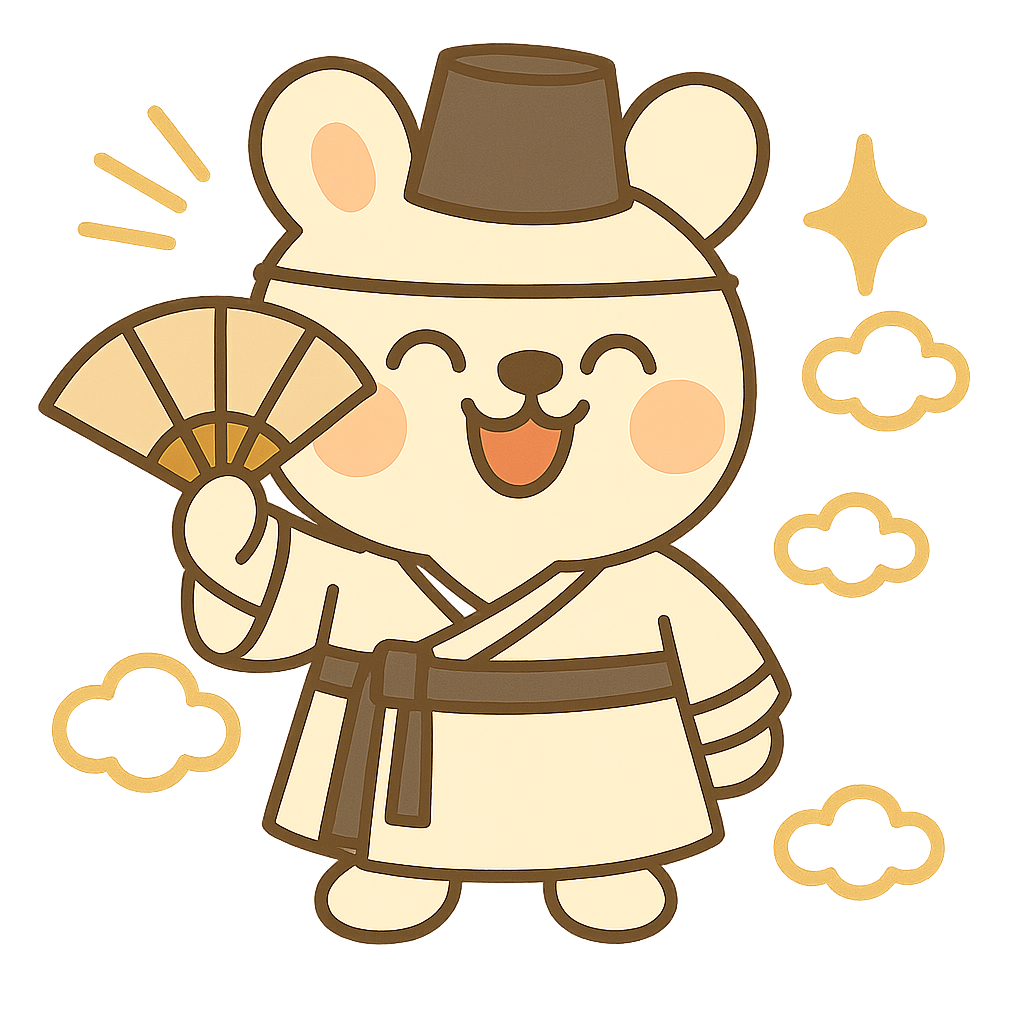
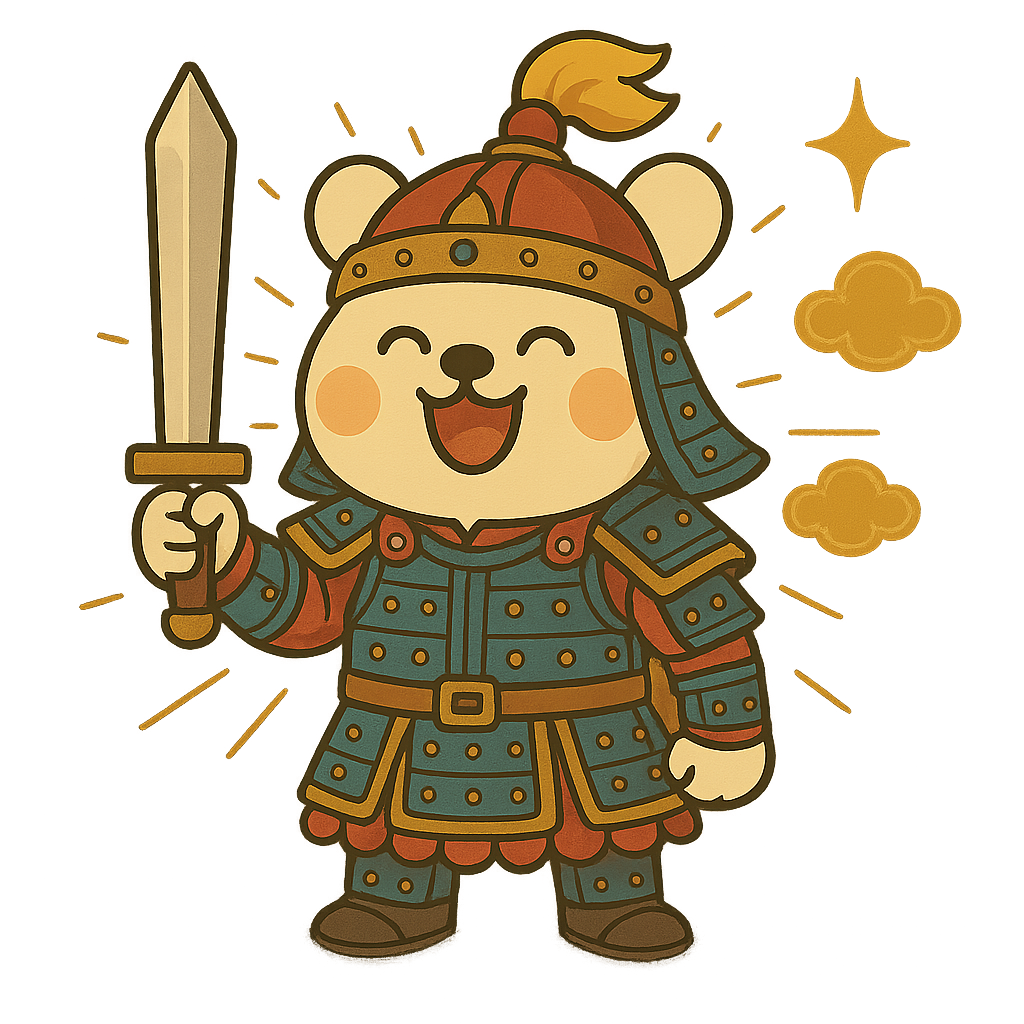
금일 작업 내용

diff --git a/src/screens/modal/ProverbDetailModal.tsx b/src/screens/modal/ProverbDetailModal.tsx
@@ -1,0 +1,252 @@
+// ProverbDetailModal.tsx
+import React from 'react';
+import { View, Text, TouchableOpacity, ScrollView, Modal, StyleSheet } from 'react-native';
+import Icon from 'react-native-vector-icons/FontAwesome6';
+import { scaledSize, scaleHeight, scaleWidth } from '@/utils';
+import { MainDataType } from '@/types/MainDataType';
+
+type Props = {
+    visible: boolean;
+    proverb: MainDataType.Proverb | null;
+    onClose: () => void;
+    getFieldColor: (field: string) => string;
+    getLevelColor: (levelName: string) => string;
+};
+
+const ProverbDetailModal = ({ visible, proverb, onClose, getFieldColor, getLevelColor }: Props) => {
+    if (!proverb) return null;
+
+    return (
+        <Modal visible={visible} animationType="slide" transparent onRequestClose={onClose}>
+            <View style={styles.modalOverlay}>
+                <View style={styles.modalContainer}>
+                    {/* ───────────── 헤더 (그대로 유지) ───────────── */}
+                    <View style={styles.modalHeader}>
+                        <Text style={styles.modalHeaderTitle}>속담 상세</Text>
+                        <TouchableOpacity style={styles.modalCloseIcon} onPress={onClose}>
+                            <Icon name="xmark" size={20} color="#0984e3" />
+                        </TouchableOpacity>
+                    </View>
+
+                    <ScrollView contentContainerStyle={styles.modalBody} showsVerticalScrollIndicator={false}>
+                        {/* 배지 영역 */}
+                        <View style={styles.badgeRow}>
+                            <View style={[styles.badge, { backgroundColor: getLevelColor(proverb.levelName) }]}>
+                                <Text style={styles.badgeText}>{proverb.levelName}</Text>
+                            </View>
+                            <View style={[styles.badge, { backgroundColor: getFieldColor(proverb.category) }]}>
+                                <Text style={styles.badgeText}>{proverb.category}</Text>
+                            </View>
+                        </View>
+
+                        {/* 속담 본문 강조 박스 */}
+                        <Text style={styles.modalProverbText}>{proverb.proverb}</Text>
+
+                        {/* 의미 */}
+                        {Boolean(proverb.longMeaning) && (
+                            <View style={styles.meaningHighlight}>
+                                <View style={styles.meaningQuoteBox}>
+                                    <Icon
+                                        name="quote-left"
+                                        size={28}
+                                        color="#58D68D"
+                                        style={{ marginBottom: scaleHeight(8) }}
+                                    />
+                                    <Text style={styles.meaningQuoteText}>{proverb.longMeaning}</Text>
+                                </View>
+                            </View>
+                        )}
+
+                        {/* 예시 */}
+                        {Array.isArray(proverb.example) && proverb.example.length > 0 && (
+                            <View style={styles.sectionBox}>
+                                <Text style={styles.sectionTitle}>✍ 예시</Text>
+                                {proverb.example.map((ex, idx) => (
+                                    <Text key={idx} style={styles.exampleText}>
+                                        • {ex}
+                                    </Text>
+                                ))}
+                            </View>
+                        )}
+
+                        {/* 비슷한 속담 */}
+                        {Array.isArray(proverb.sameProverb) && proverb.sameProverb.filter((p) => p.trim()).length > 0 && (
+                            <View style={styles.sectionBox}>
+                                <Text style={styles.sectionTitle}>🔗 비슷한 속담</Text>
+                                {proverb.sameProverb.map((p, idx) => (
+                                    <Text key={idx} style={styles.sectionText}>
+                                        - {p}
+                                    </Text>
+                                ))}
+                            </View>
+                        )}
+                    </ScrollView>
+
+                    {/* 닫기 버튼 */}
+                    <TouchableOpacity style={styles.modalCloseButton} onPress={onClose}>
+                        <Text style={styles.modalCloseButtonText}>닫기</Text>
+                    </TouchableOpacity>
+                </View>
+            </View>
+        </Modal>
+    );
+};
+
+export default ProverbDetailModal;
+
+const styles = StyleSheet.create({
+    modalOverlay: {
+        flex: 1,
+        backgroundColor: 'rgba(0,0,0,0.5)',
+        justifyContent: 'center',
+        alignItems: 'center',
+    },
+    modalContainer: {
+        width: '90%',
+        backgroundColor: '#fff',
+        borderRadius: scaleWidth(20),
+        overflow: 'hidden',
+        maxHeight: '85%',
+    },
+
+    /* ✅ 헤더는 기존 스타일 유지 */
+    modalHeader: {
+        backgroundColor: '#fff',
+        paddingVertical: scaleHeight(16),
+        paddingHorizontal: scaleWidth(20),
+        justifyContent: 'center',
+        alignItems: 'center',
+        position: 'relative',
+    },
+    modalHeaderTitle: {
+        fontSize: scaledSize(22),
+        fontWeight: 'bold',
+        color: '#2d3436',
+        textAlign: 'center',
+    },
+    modalCloseIcon: {
+        position: 'absolute',
+        top: scaleHeight(16),
+        right: scaleWidth(16),
+        padding: scaleWidth(4),
+        zIndex: 10,
+    },
+
+    /* ✅ 본문 스타일 개선 */
+    modalBody: {
+        paddingHorizontal: scaleWidth(16),
+        paddingTop: scaleHeight(8),
+        paddingBottom: scaleHeight(20),
+    },
+
+    badgeRow: {
+        flexDirection: 'row',
+        flexWrap: 'wrap',
+        gap: scaleWidth(8),
+        justifyContent: 'center',
+        marginBottom: scaleHeight(16),
+    },
+    badge: {
+        flexDirection: 'row',
+        alignItems: 'center',
+        paddingHorizontal: scaleWidth(12),
+        paddingVertical: scaleHeight(6),
+        borderRadius: scaleWidth(14),
+    },
+    badgeText: {
+        color: '#fff',
+        fontSize: scaledSize(12),
+        fontWeight: '600',
+    },
+
+    highlightSection: {
+        borderWidth: 1.5,
+        borderColor: '#A5D8FF',
+        backgroundColor: '#EAF4FF',
+        paddingVertical: scaleHeight(16),
+        paddingHorizontal: scaleWidth(14),
+        borderRadius: scaleWidth(14),
+        marginBottom: scaleHeight(16),
+        alignItems: 'center',
+    },
+    modalProverbText: {
+        fontSize: scaledSize(20),
+        fontWeight: '700',
+        color: '#1E6BB8', // 파란색 강조
+        textAlign: 'center',
+        lineHeight: scaleHeight(28),
+        marginBottom: scaleHeight(16), // 아래 요소와 간격만 추가
+    },
+
+    sectionBox: {
+        borderWidth: 1,
+        borderColor: '#E6EEF5',
+        backgroundColor: '#FDFEFE',
+        padding: scaleWidth(12),
+        borderRadius: scaleWidth(12),
+        marginBottom: scaleHeight(12),
+        shadowColor: '#000',
+        shadowOpacity: 0.05,
+        shadowOffset: { width: 0, height: 2 },
+        shadowRadius: 4,
+        elevation: 2,
+    },
+    sectionTitle: {
+        fontSize: scaledSize(15),
+        fontWeight: '700',
+        color: '#2c3e50',
+        marginBottom: scaleHeight(10),
+    },
+    sectionText: {
+        fontSize: scaledSize(14),
+        color: '#444',
+        lineHeight: scaleHeight(20),
+    },
+    exampleText: {
+        fontSize: scaledSize(13),
+        color: '#555',
+        lineHeight: 20,
+        marginBottom: scaleHeight(6),
+        backgroundColor: '#FAFAFA',
+        padding: scaleWidth(8),
+        borderRadius: scaleWidth(8),
+    },
+
+    /* ✅ 닫기 버튼 */
+    modalCloseButton: {
+        backgroundColor: '#0984e3',
+        paddingVertical: scaleHeight(14),
+        alignItems: 'center',
+        borderBottomLeftRadius: scaleWidth(20),
+        borderBottomRightRadius: scaleWidth(20),
+    },
+    modalCloseButtonText: {
+        color: '#fff',
+        fontSize: scaledSize(16),
+        fontWeight: 'bold',
+    },
+    meaningHighlight: {
+        borderWidth: 1.5,
+        borderColor: '#A5D8FF',
+        backgroundColor: '#EAF4FF',
+        padding: scaleWidth(14),
+        borderRadius: scaleWidth(14),
+        marginBottom: scaleHeight(16),
+        shadowColor: '#000',
+        shadowOpacity: 0.08,
+        shadowOffset: { width: 0, height: 2 },
+        shadowRadius: 4,
+        elevation: 3,
+    },
+    meaningQuoteBox: {
+        alignItems: 'center',
+        justifyContent: 'center',
+    },
+    meaningQuoteText: {
+        fontSize: scaledSize(15),
+        fontWeight: '600',
+        color: '#2c3e50',
+        lineHeight: scaleHeight(22),
+        textAlign: 'center',
+    },
+});

diff --git a/src/screens/ProverbListScreen.tsx b/src/screens/ProverbListScreen.tsx
@@ -26,6 +26,8 @@ import IconComponent from './common/atomic/IconComponent';
 import { scaledSize, scaleHeight, scaleWidth } from '@/utils';
 import DeviceInfo from 'react-native-device-info';
 import { useBlockBackHandler } from '@/hooks/useBlockBackHandler';
+import ProverbDetailModal from './modal/ProverbDetailModal';
+
 
 const PAGE_SIZE = 30;
 
@@ -470,73 +472,13 @@ const ProverbListScreen = () => {
 						)}
 
 						{/* 상세 모달 */}
-						<Modal visible={showDetailModal} animationType="slide" transparent={true} onRequestClose={() => setShowDetailModal(false)}>
-							<View style={styles.modalOverlay}>
-								<View style={styles.modalContainer}>
-									<View style={styles.modalHeader}>
-										<Text style={styles.modalHeaderTitle}>속담 상세</Text>
-										<TouchableOpacity style={styles.modalCloseIcon} onPress={() => setShowDetailModal(false)}>
-											<Icon name="xmark" size={20} color="#0984e3" />
-										</TouchableOpacity>
-									</View>
-
-									{/* ✅ 스크롤 가능한 영역 */}
-									<ScrollView contentContainerStyle={styles.modalBody}>
-										{/* 속담 본문 크게 강조 */}
-
-										{selectedProverb && (
-											<>
-												<View style={[styles.badgeRow, { marginBottom: scaleHeight(12) }]}>
-													<View style={[styles.badge, { backgroundColor: getLevelColor(selectedProverb.levelName) }]}>
-														<Text style={styles.badgeText}>{selectedProverb.levelName}</Text>
-													</View>
-													<View style={[styles.badge, { backgroundColor: getFieldColor(selectedProverb.category) }]}>
-														<Text style={styles.badgeText}>{selectedProverb.category}</Text>
-													</View>
-												</View>
-												<View style={styles.modalProverbBox}>
-													<Text style={styles.modalProverbText}>{selectedProverb.proverb}</Text>
-												</View>
-
-
-
-												<View style={styles.modalSection}>
-													<Text style={styles.modalLabel}>의미</Text>
-													<Text style={styles.modalText}>- {selectedProverb?.longMeaning}</Text>
-												</View>
-
-												{Array.isArray(selectedProverb?.example) && selectedProverb.example.length > 0 && (
-													<View style={styles.modalSection}>
-														<Text style={styles.modalLabel}>예시</Text>
-														{selectedProverb.example.map((ex, idx) => (
-															<Text key={idx} style={styles.modalText}>
-																- "{ex}"
-															</Text>
-														))}
-													</View>
-												)}
-
-												{Array.isArray(selectedProverb.sameProverb) && selectedProverb.sameProverb.filter((p) => p.trim()).length > 0 && (
-													<View style={styles.modalSection}>
-														<Text style={styles.modalLabel}>비슷한 속담</Text>
-														{selectedProverb.sameProverb.map((p, idx) => (
-															<Text key={idx} style={styles.modalText}>
-																- {p}
-															</Text>
-														))}
-													</View>
-												)}
-											</>
-										)}
-									</ScrollView>
-
-									{/* ✅ 닫기 버튼을 모달 맨 하단에 고정 */}
-									<TouchableOpacity style={styles.modalCloseButton} onPress={() => setShowDetailModal(false)}>
-										<Text style={styles.modalCloseButtonText}>닫기</Text>
-									</TouchableOpacity>
-								</View>
-							</View>
-						</Modal>
+						<ProverbDetailModal
+							visible={showDetailModal}
+							proverb={selectedProverb}
+							onClose={() => setShowDetailModal(false)}
+							getFieldColor={getFieldColor}
+							getLevelColor={getLevelColor}
+						/>
 					</View>
 				</TouchableWithoutFeedback>
 			</KeyboardAvoidingView>

diff --git a/src/screens/Home.tsx b/src/screens/Home.tsx
@@ -48,7 +48,7 @@ const greetingMessages = [
 const LEVEL_DATA = [
 	{
 		score: 0,
-		next: 600,
+		next: 680,
 		label: '속담 초보자',
 		icon: 'seedling',
 		encouragement: '🌱 첫걸음을 뗐어요! 이제 속담의 세계로!',
@@ -56,8 +56,8 @@ const LEVEL_DATA = [
 		mascot: require('@/assets/images/level1_mascote.png'),
 	},
 	{
-		score: 600,
-		next: 1200,
+		score: 680,
+		next: 1360,
 		label: '속담 입문자',
 		icon: 'leaf',
 		encouragement: '🍃 차근차근 익혀가는 중이에요!\n조금씩 자신감이 붙고 있어요!',
@@ -65,8 +65,8 @@ const LEVEL_DATA = [
 		mascot: require('@/assets/images/level2_mascote.png'),
 	},
 	{
-		score: 1200,
-		next: 1800,
+		score: 1360,
+		next: 2040,
 		label: '속담 숙련자',
 		icon: 'tree',
 		encouragement: '🌳 멋져요! 속담 실력이 부쩍 늘었어요!',
@@ -74,13 +74,22 @@ const LEVEL_DATA = [
 		mascot: require('@/assets/images/level3_mascote.png'),
 	},
 	{
-		score: 1800,
-		next: 2461,
+		score: 2040,
+		next: 2720,
+		label: '속담 전사',
+		icon: 'helmet-battle',
+		encouragement: '🪖 속담 전사로 거듭났어요!\n지식을 무기로 도전을 헤쳐나가고 있어요!',
+		description: '속담을 무기 삼아 자신 있게 문제를 정복하는 단계로,\n진정한 전사로서 강한 자신감을 보여주는 시기예요.',
+		mascot: require('@/assets/images/level4_mascote.png'),
+	},
+	{
+		score: 2720,
+		next: 3380,
 		label: '속담 마스터',
 		icon: 'trophy',
 		encouragement: '🏆 속담 마스터에 도달했어요! 정말 대단해요!',
 		description: '속담에 대한 깊은 이해와 활용 능력을 갖춘 최상위 단계로,\n누구에게나 모범이 될 수 있는 수준이에요.',
-		mascot: require('@/assets/images/level4_mascote.png'),
+		mascot: require('@/assets/images/level5_mascote2.png'),
 	},
 ];
 
